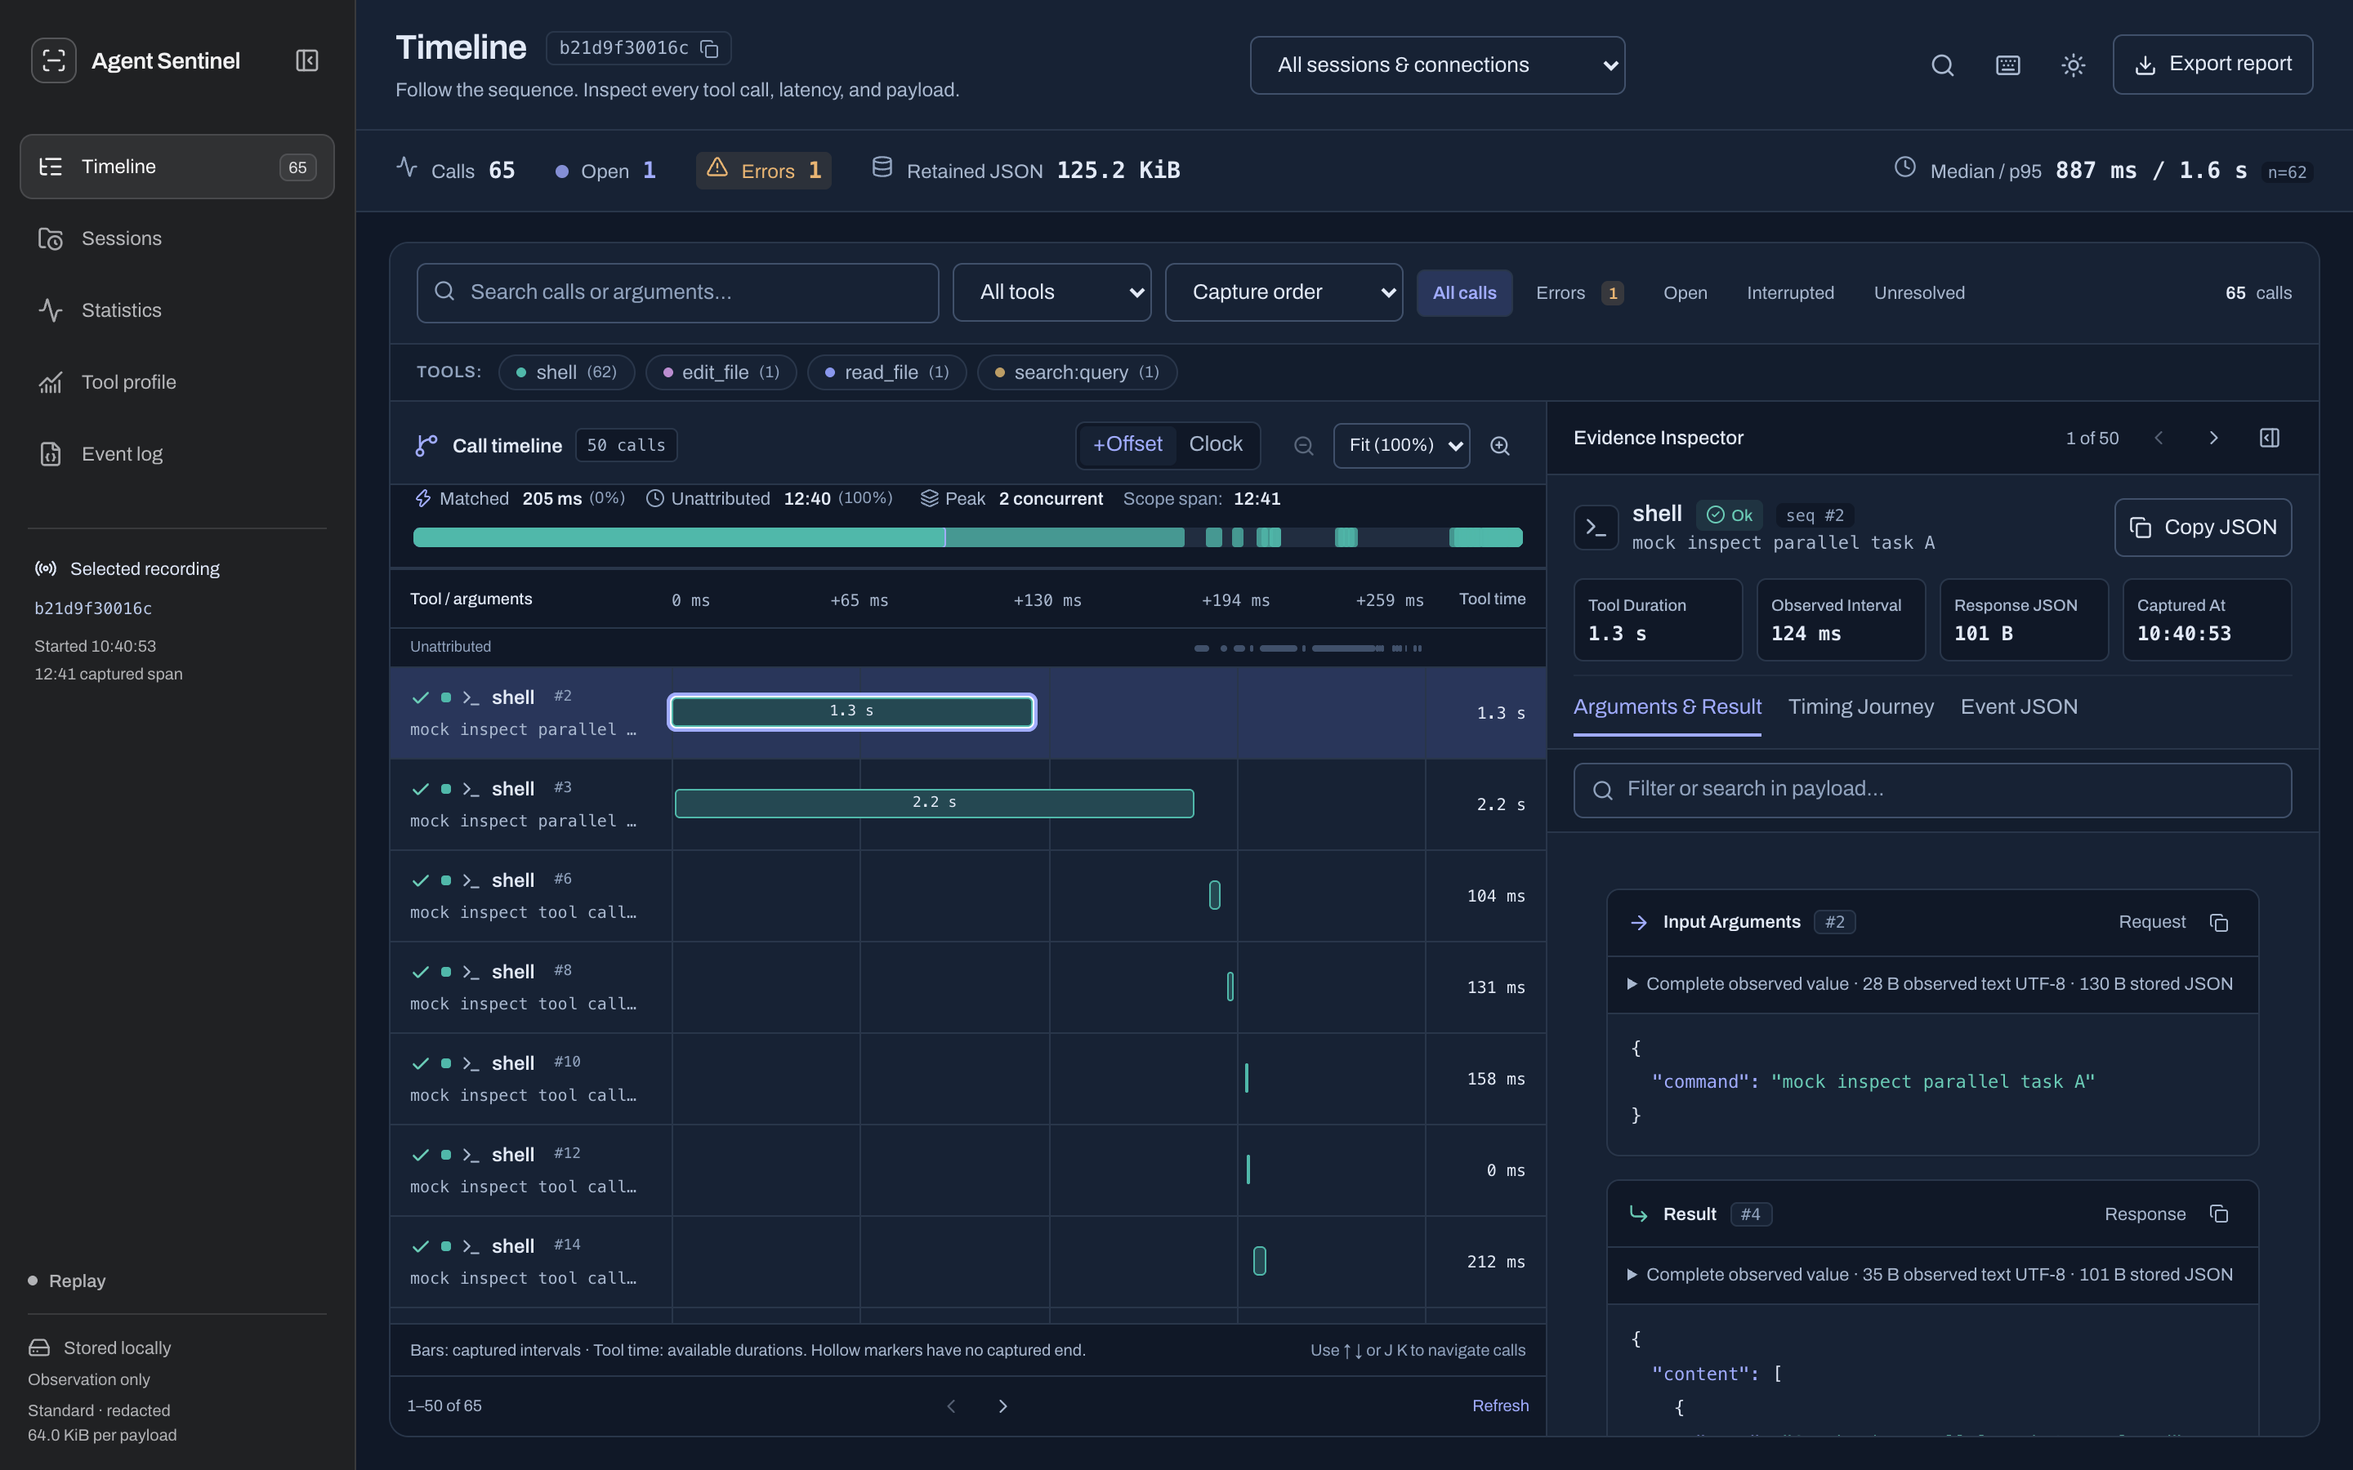
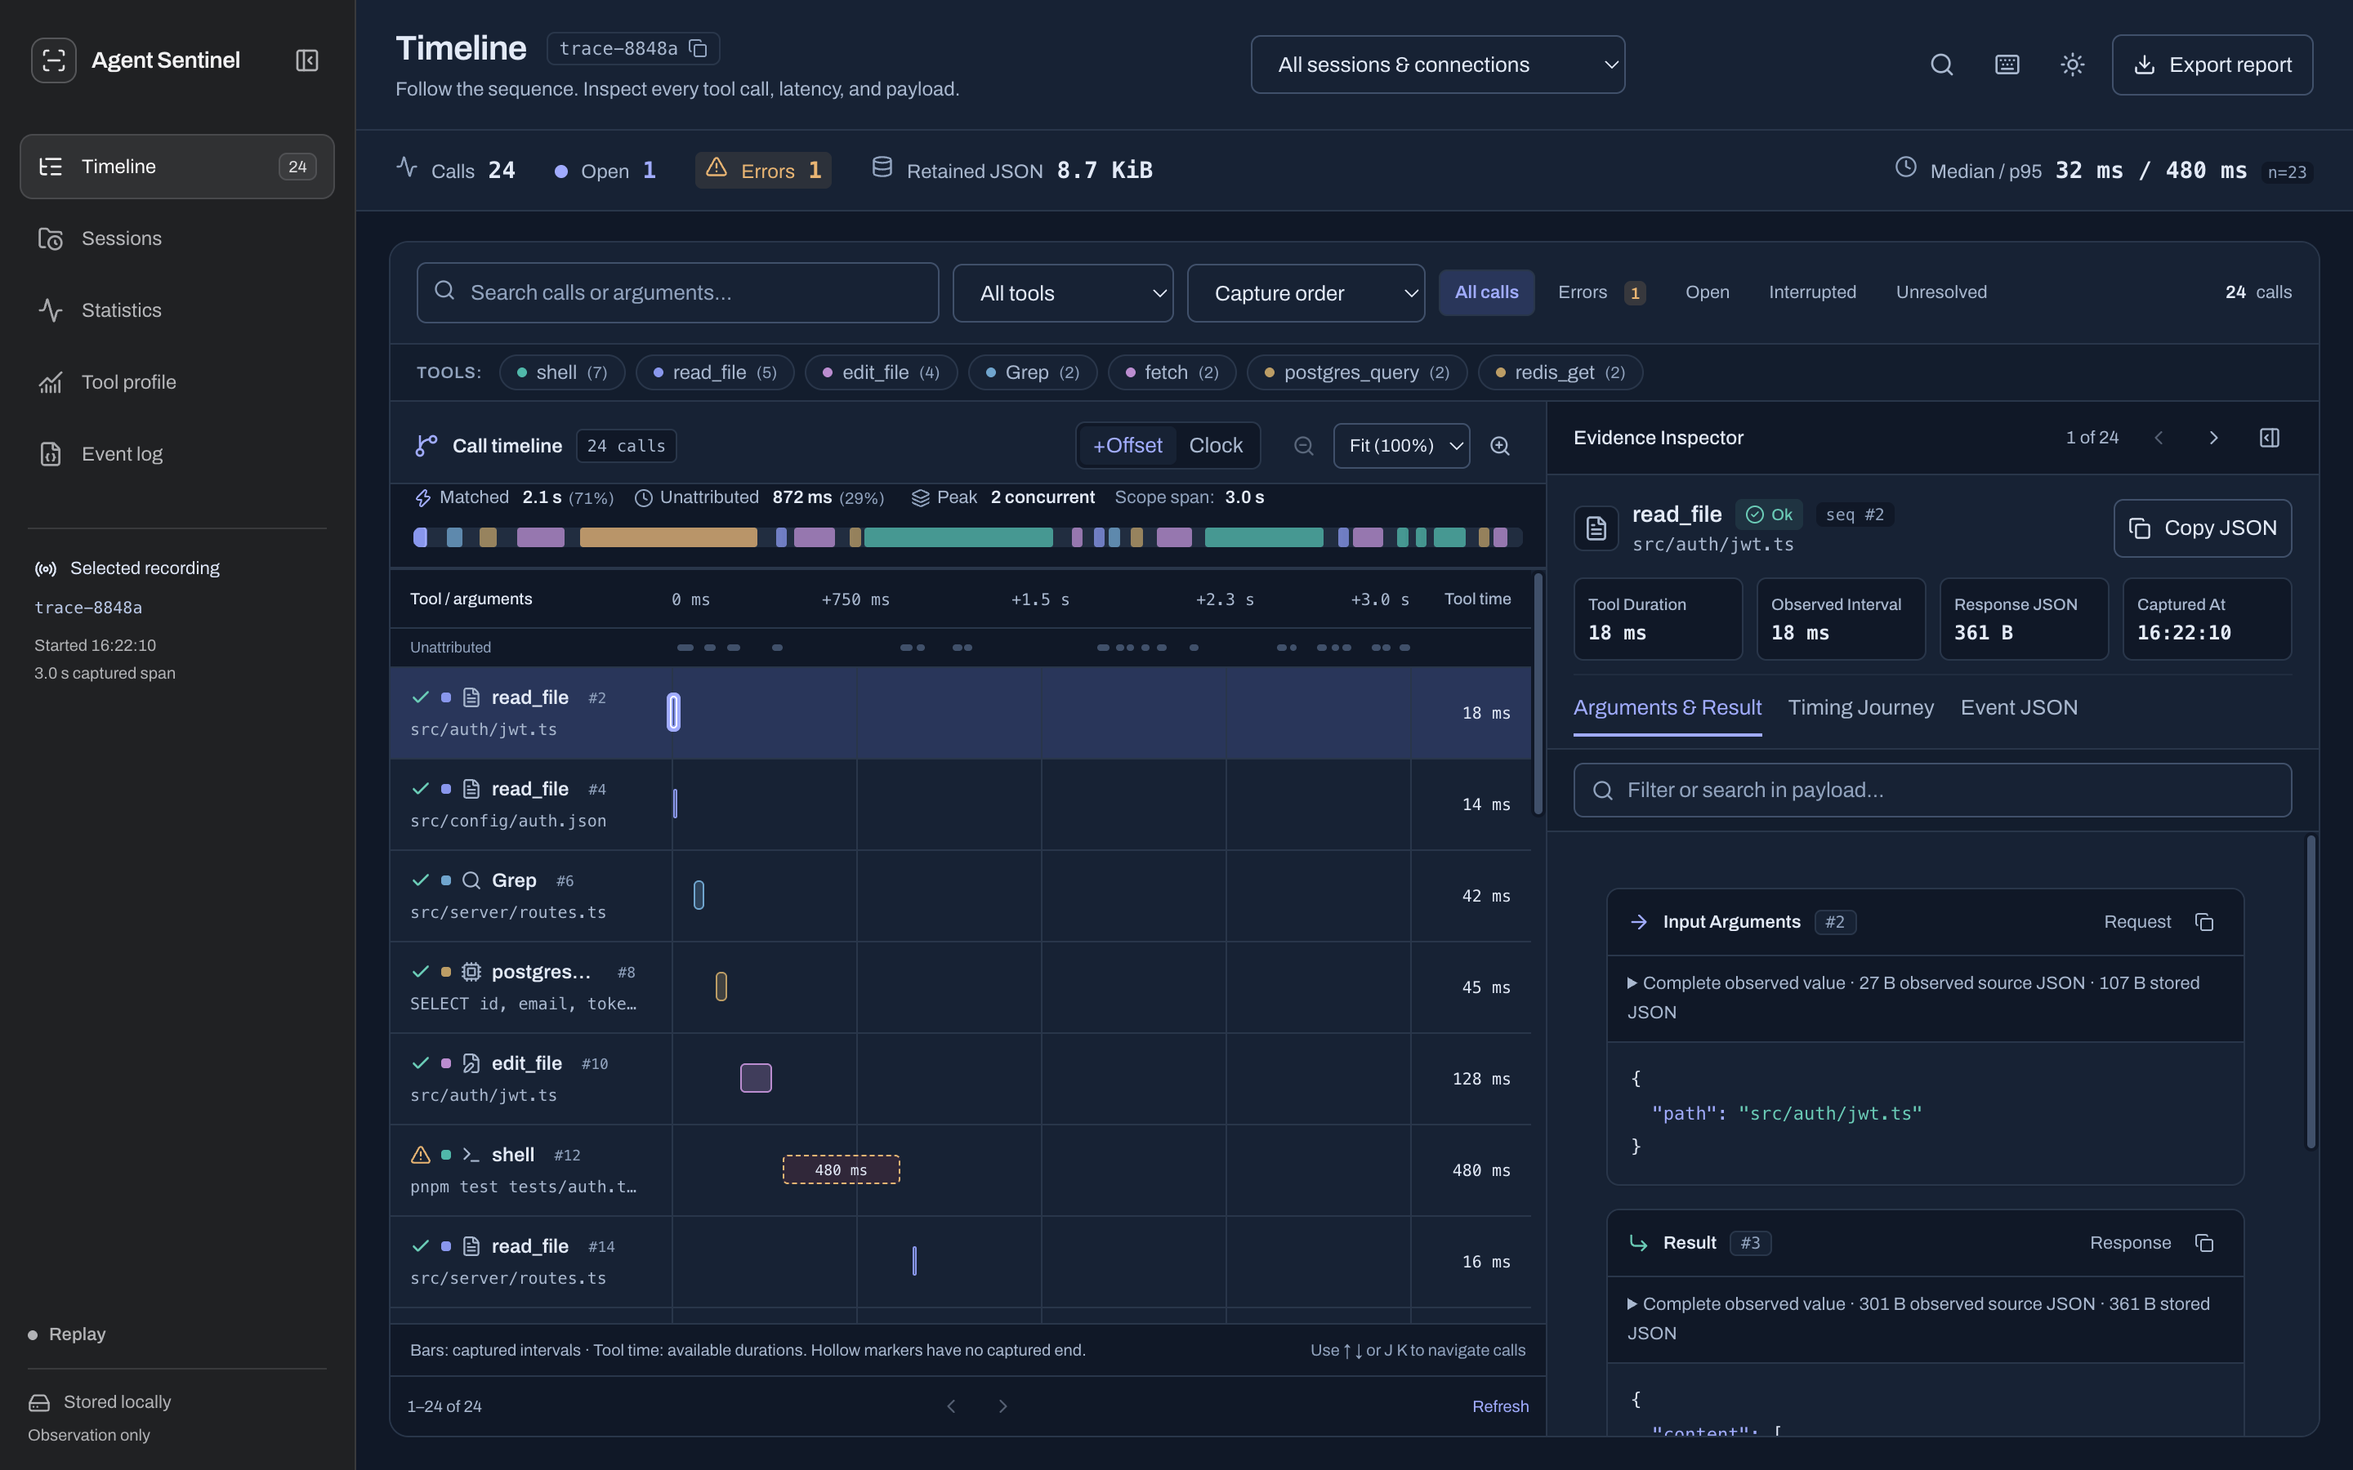
docs(assets): update cockpit screenshot with diverse real-world agent tool calls

diff --git a/examples/generate_rich_session.py b/examples/generate_rich_session.py
@@ -1,0 +1,337 @@
+import json
+from datetime import datetime, timezone, timedelta
+
+base_time = datetime(2026, 10, 16, 14, 22, 10, 120000, tzinfo=timezone.utc)
+rec_id = "trace-8848a"
+agent_session = "jwt-session-rotation"
+
+calls_data = [
+    {
+        "tool": "read_file",
+        "dur": 18,
+        "offset": 0,
+        "status": "ok",
+        "args": {"path": "src/auth/jwt.ts"},
+        "res": {
+            "content": [
+                {
+                    "type": "text",
+                    "text": "export interface TokenClaims {\n  sub: string;\n  email: string;\n  role: 'admin' | 'user';\n  iat: number;\n  exp: number;\n}\n\nexport function verifyToken(token: string): TokenClaims {\n  return jwt.verify(token, process.env.JWT_SECRET) as TokenClaims;\n}"
+                }
+            ]
+        }
+    },
+    {
+        "tool": "read_file",
+        "dur": 14,
+        "offset": 8, # slight overlap with #1 for concurrency = 2
+        "status": "ok",
+        "args": {"path": "src/config/auth.json"},
+        "res": {"content": [{"type": "text", "text": "{\n  \"accessTokenTtl\": \"15m\",\n  \"refreshTokenTtl\": \"7d\",\n  \"algorithm\": \"HS256\"\n}"}]}
+    },
+    {
+        "tool": "Grep",
+        "dur": 42,
+        "offset": 90,
+        "status": "ok",
+        "args": {"query": "verifyToken src/", "path": "src/server/routes.ts"},
+        "res": {"content": [{"type": "text", "text": "src/server/routes.ts:34: const session = verifyToken(req.headers.authorization);\nsrc/auth/jwt.ts:12: export function verifyToken(token: string): TokenClaims {"}]}
+    },
+    {
+        "tool": "postgres_query",
+        "dur": 45,
+        "offset": 180,
+        "status": "ok",
+        "args": {"query": "SELECT id, email, token_version, active FROM users WHERE active = true LIMIT 5;"},
+        "res": {"content": [{"type": "text", "text": "[\n  {\"id\": \"usr_1\", \"email\": \"alex@acme.dev\", \"token_version\": 3, \"active\": true},\n  {\"id\": \"usr_2\", \"email\": \"sam@acme.dev\", \"token_version\": 1, \"active\": true}\n]"}]}
+    },
+    {
+        "tool": "edit_file",
+        "dur": 128,
+        "offset": 280,
+        "status": "ok",
+        "args": {
+            "path": "src/auth/jwt.ts",
+            "patch": "--- a/src/auth/jwt.ts\n+++ b/src/auth/jwt.ts\n@@ -12,4 +12,8 @@\n export function verifyToken(token: string): TokenClaims {\n-  return jwt.verify(token, process.env.JWT_SECRET) as TokenClaims;\n+  const decoded = jwt.verify(token, process.env.JWT_SECRET) as TokenClaims;\n+  if (decoded.exp && decoded.exp < Math.floor(Date.now() / 1000)) {\n+    throw new TokenExpiredError('jwt expired');\n+  }\n+  return decoded;\n }"
+        },
+        "res": {"content": [{"type": "text", "text": "Applied 1 hunk successfully to src/auth/jwt.ts"}]}
+    },
+    {
+        "tool": "shell",
+        "dur": 480,
+        "offset": 450,
+        "status": "error",
+        "args": {"command": "pnpm test tests/auth.test.ts"},
+        "res": {"content": [{"type": "text", "text": "FAIL tests/auth.test.ts\n  ✓ verifies valid token (4ms)\n  ✕ rejects expired token (14ms)\n\n  AssertionError: expected TokenExpiredError to be thrown, but received undefined\n    at tests/auth.test.ts:42:11"}], "isError": True}
+    },
+    {
+        "tool": "read_file",
+        "dur": 16,
+        "offset": 980,
+        "status": "ok",
+        "args": {"path": "src/server/routes.ts"},
+        "res": {"content": [{"type": "text", "text": "router.post('/auth/refresh', async (req, res) => {\n  // refresh handler\n});"}]}
+    },
+    {
+        "tool": "edit_file",
+        "dur": 110,
+        "offset": 1030,
+        "status": "ok",
+        "args": {
+            "path": "src/server/routes.ts",
+            "patch": "--- a/src/server/routes.ts\n+++ b/src/server/routes.ts\n@@ -34,3 +34,6 @@\n router.post('/auth/refresh', async (req, res) => {\n-  res.status(501).send();\n+  const { refreshToken } = req.body;\n+  const session = await rotateUserSession(refreshToken);\n+  res.json({ session });\n });"
+        },
+        "res": {"content": [{"type": "text", "text": "Applied 1 hunk successfully to src/server/routes.ts"}]}
+    },
+    {
+        "tool": "redis_get",
+        "dur": 8,
+        "offset": 1180,
+        "status": "ok",
+        "args": {"query": "session:usr_99214:tokens"},
+        "res": {"content": [{"type": "text", "text": "{\"token_version\": 3, \"last_rotated\": 1729088400, \"revoked\": false}"}]}
+    },
+    {
+        "tool": "shell",
+        "dur": 510,
+        "offset": 1220,
+        "status": "ok",
+        "args": {"command": "pnpm test tests/auth.test.ts"},
+        "res": {"content": [{"type": "text", "text": "PASS tests/auth.test.ts\n  ✓ verifies valid token (4ms)\n  ✓ rejects expired token (2ms)\n  ✓ refreshes session token (12ms)\n\nTest Suites: 1 passed, 1 total\nTests:       3 passed, 3 total\nTime:        0.49s"}]}
+    },
+    {
+        "tool": "fetch",
+        "dur": 24,
+        "offset": 1780,
+        "status": "ok",
+        "args": {"query": "GET http://localhost:3000/api/health"},
+        "res": {"content": [{"type": "text", "text": "HTTP/1.1 200 OK\nContent-Type: application/json\n\n{\"status\": \"healthy\", \"version\": \"2.4.0\", \"uptime\": 1482}"}]}
+    },
+    {
+        "tool": "read_file",
+        "dur": 9,
+        "offset": 1840,
+        "status": "ok",
+        "args": {"path": "package.json"},
+        "res": {"content": [{"type": "text", "text": "{\n  \"name\": \"acme-api\",\n  \"version\": \"2.4.0\"\n}"}]}
+    },
+    {
+        "tool": "Grep",
+        "dur": 29,
+        "offset": 1880,
+        "status": "ok",
+        "args": {"query": "rotateUserSession src/", "path": "src/services/session.ts"},
+        "res": {"content": [{"type": "text", "text": "src/services/session.ts:18: export async function rotateUserSession(refreshToken: string) {"}]}
+    },
+    {
+        "tool": "postgres_query",
+        "dur": 32,
+        "offset": 1940,
+        "status": "ok",
+        "args": {"query": "UPDATE users SET token_version = token_version + 1 WHERE id = 'usr_1';"},
+        "res": {"content": [{"type": "text", "text": "UPDATE 1"}]}
+    },
+    {
+        "tool": "edit_file",
+        "dur": 95,
+        "offset": 2010,
+        "status": "ok",
+        "args": {
+            "path": "tests/auth.test.ts",
+            "patch": "--- a/tests/auth.test.ts\n+++ b/tests/auth.test.ts\n@@ -24,2 +24,6 @@\n   it('rotates expired session tokens', async () => {\n+    const session = await rotateUserSession(expiredToken);\n+    expect(session.active).toBe(true);\n   });"
+        },
+        "res": {"content": [{"type": "text", "text": "Applied 1 hunk successfully to tests/auth.test.ts"}]}
+    },
+    {
+        "tool": "shell",
+        "dur": 320,
+        "offset": 2140,
+        "status": "ok",
+        "args": {"command": "pnpm lint"},
+        "res": {"content": [{"type": "text", "text": "✔ No ESLint warnings or errors found."}]}
+    },
+    {
+        "tool": "read_file",
+        "dur": 11,
+        "offset": 2500,
+        "status": "ok",
+        "args": {"path": "src/types/auth.d.ts"},
+        "res": {"content": [{"type": "text", "text": "export interface SessionToken {\n  accessToken: string;\n  refreshToken: string;\n}"}]}
+    },
+    {
+        "tool": "edit_file",
+        "dur": 82,
+        "offset": 2540,
+        "status": "ok",
+        "args": {
+            "path": "src/types/auth.d.ts",
+            "patch": "--- a/src/types/auth.d.ts\n+++ b/src/types/auth.d.ts\n@@ -3,2 +3,3 @@\n   refreshToken: string;\n+  expiresAt: number;\n }"
+        },
+        "res": {"content": [{"type": "text", "text": "Applied 1 hunk successfully to src/types/auth.d.ts"}]}
+    },
+    {
+        "tool": "shell",
+        "dur": 22,
+        "offset": 2660,
+        "status": "ok",
+        "args": {"command": "git diff --stat"},
+        "res": {"content": [{"type": "text", "text": " src/auth/jwt.ts       | 6 +++++-\n src/server/routes.ts  | 5 ++++-\n src/types/auth.d.ts   | 1 +\n tests/auth.test.ts    | 4 ++++\n 4 files changed, 16 insertions(+), 2 deletions(-)"}]}
+    },
+    {
+        "tool": "shell",
+        "dur": 14,
+        "offset": 2710,
+        "status": "ok",
+        "args": {"command": "git status --porcelain"},
+        "res": {"content": [{"type": "text", "text": " M src/auth/jwt.ts\n M src/server/routes.ts\n M src/types/auth.d.ts\n M tests/auth.test.ts"}]}
+    },
+    {
+        "tool": "shell",
+        "dur": 85,
+        "offset": 2760,
+        "status": "ok",
+        "args": {"command": "git commit -m \"fix(auth): rotate expired session tokens on refresh\""},
+        "res": {"content": [{"type": "text", "text": "[main 8c91fa0] fix(auth): rotate expired session tokens on refresh\n 4 files changed, 16 insertions(+), 2 deletions(-)"}]}
+    },
+    {
+        "tool": "redis_get",
+        "dur": 6,
+        "offset": 2880,
+        "status": "ok",
+        "args": {"query": "session:cache:health"},
+        "res": {"content": [{"type": "text", "text": "{\"status\": \"ready\", \"connections\": 14}"}]}
+    },
+    {
+        "tool": "fetch",
+        "dur": 38,
+        "offset": 2920,
+        "status": "ok",
+        "args": {"query": "POST http://localhost:3000/api/auth/refresh"},
+        "res": {"content": [{"type": "text", "text": "HTTP/1.1 200 OK\nContent-Type: application/json\n\n{\"session\": {\"accessToken\": \"eyJ...\", \"expiresAt\": 1729089300}}"}]}
+    },
+    {
+        "tool": "shell",
+        "dur": None, # OPEN / PENDING call!
+        "offset": 3000,
+        "status": "pending",
+        "args": {"command": "pnpm build --watch"},
+        "res": None
+    }
+]
+
+lines = []
+seq = 1
+
+# SessionStarted
+lines.append({
+    "schemaVersion": 2,
+    "recordingId": rec_id,
+    "seq": seq,
+    "sessionId": rec_id,
+    "timestamp": base_time.isoformat(),
+    "type": "SessionStarted",
+    "risk": "none",
+    "status": "ok"
+})
+
+for i, call in enumerate(calls_data, 1):
+    seq += 1
+    req_seq = seq
+    call_id = f"{rec_id}/call/{i}"
+    rpc_id = f"h{i}"
+    start_ts = base_time + timedelta(milliseconds=call["offset"])
+    
+    # Request
+    req_event = {
+        "schemaVersion": 2,
+        "recordingId": rec_id,
+        "source": "cursor-hook",
+        "sourceId": f"{rec_id}/cursor-hook",
+        "agentSessionId": agent_session,
+        "callId": call_id,
+        "correlation": {"method": "fallback", "quality": "exact"},
+        "capture": {
+            "representation": "hook-normalized",
+            "completeness": "complete",
+            "observedBytes": len(json.dumps(call["args"])),
+            "observedUnit": "json-value",
+            "observedField": "tool_input",
+            "normalizedBytes": len(json.dumps(call["args"])) + 80,
+            "storedBytes": len(json.dumps(call["args"])) + 80,
+            "profile": "standard",
+            "changes": [{"kind": "normalized", "stage": "adapter", "method": "hook-normalization-v1"}]
+        },
+        "seq": req_seq,
+        "sessionId": rec_id,
+        "timestamp": start_ts.isoformat(),
+        "type": "ToolCallRequest",
+        "direction": "client->server",
+        "method": "tools/call",
+        "toolName": call["tool"],
+        "rpcId": rpc_id,
+        "risk": "none",
+        "status": "pending",
+        "payload": {
+            "id": rpc_id,
+            "jsonrpc": "2.0",
+            "method": "tools/call",
+            "params": {
+                "name": call["tool"],
+                "arguments": call["args"]
+            }
+        }
+    }
+    lines.append(req_event)
+    
+    if call["res"] is not None:
+        seq += 1
+        end_ts = start_ts + timedelta(milliseconds=call["dur"])
+        res_event = {
+            "schemaVersion": 2,
+            "recordingId": rec_id,
+            "source": "cursor-hook",
+            "sourceId": f"{rec_id}/cursor-hook",
+            "agentSessionId": agent_session,
+            "callId": call_id,
+            "correlation": {
+                "method": "fallback",
+                "quality": "exact",
+                "requestSeq": req_seq
+            },
+            "timing": {
+                "durationMs": call["dur"],
+                "source": "source-reported"
+            },
+            "capture": {
+                "representation": "hook-normalized",
+                "completeness": "complete",
+                "observedBytes": len(json.dumps(call["res"])),
+                "observedUnit": "json-value",
+                "observedField": "result_json",
+                "normalizedBytes": len(json.dumps(call["res"])) + 60,
+                "storedBytes": len(json.dumps(call["res"])) + 60,
+                "profile": "standard",
+                "changes": [{"kind": "normalized", "stage": "adapter", "method": "hook-normalization-v1"}]
+            },
+            "seq": seq,
+            "sessionId": rec_id,
+            "timestamp": end_ts.isoformat(),
+            "type": "ToolCallResponse",
+            "direction": "server->client",
+            "method": "tools/call",
+            "toolName": call["tool"],
+            "rpcId": rpc_id,
+            "risk": "none",
+            "status": call["status"],
+            "durationMs": call["dur"],
+            "payload": {
+                "result": call["res"]
+            }
+        }
+        lines.append(res_event)
+
+output_path = "/tmp/rich-diverse-session.jsonl"
+with open(output_path, "w") as f:
+    for item in lines:
+        f.write(json.dumps(item) + "\n")
+print(f"Generated {len(lines)} events to {output_path}")
